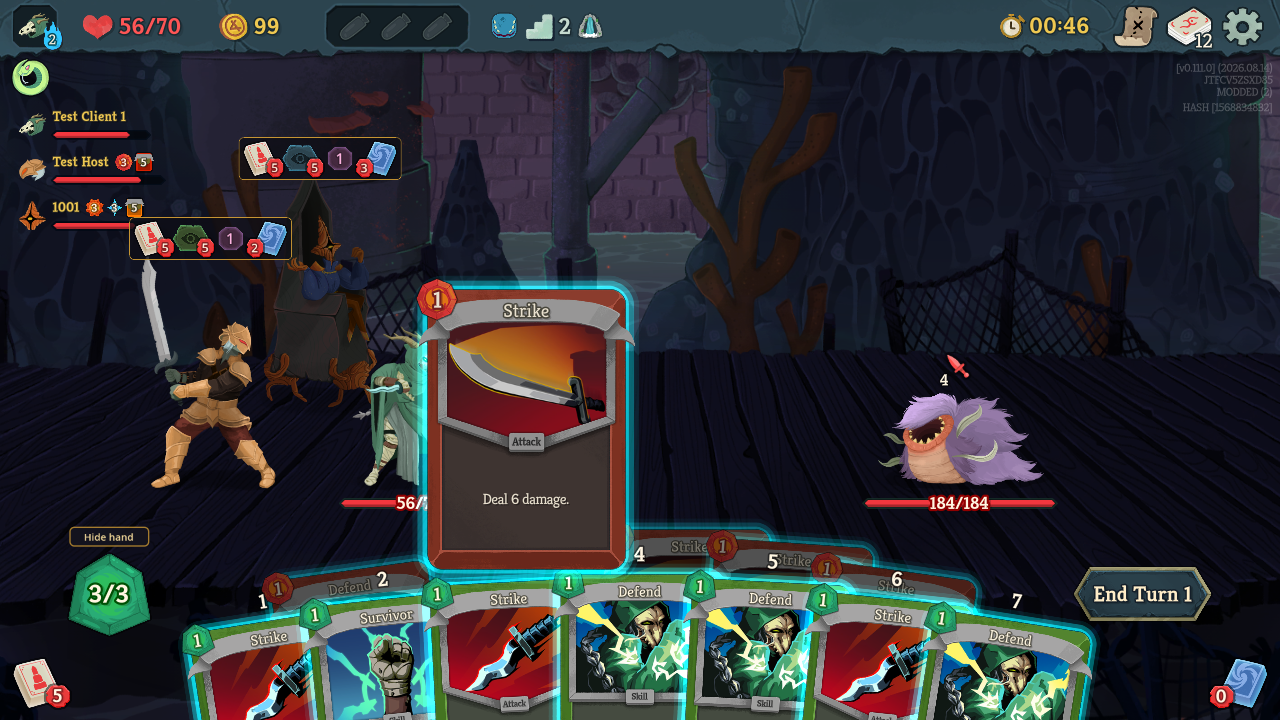
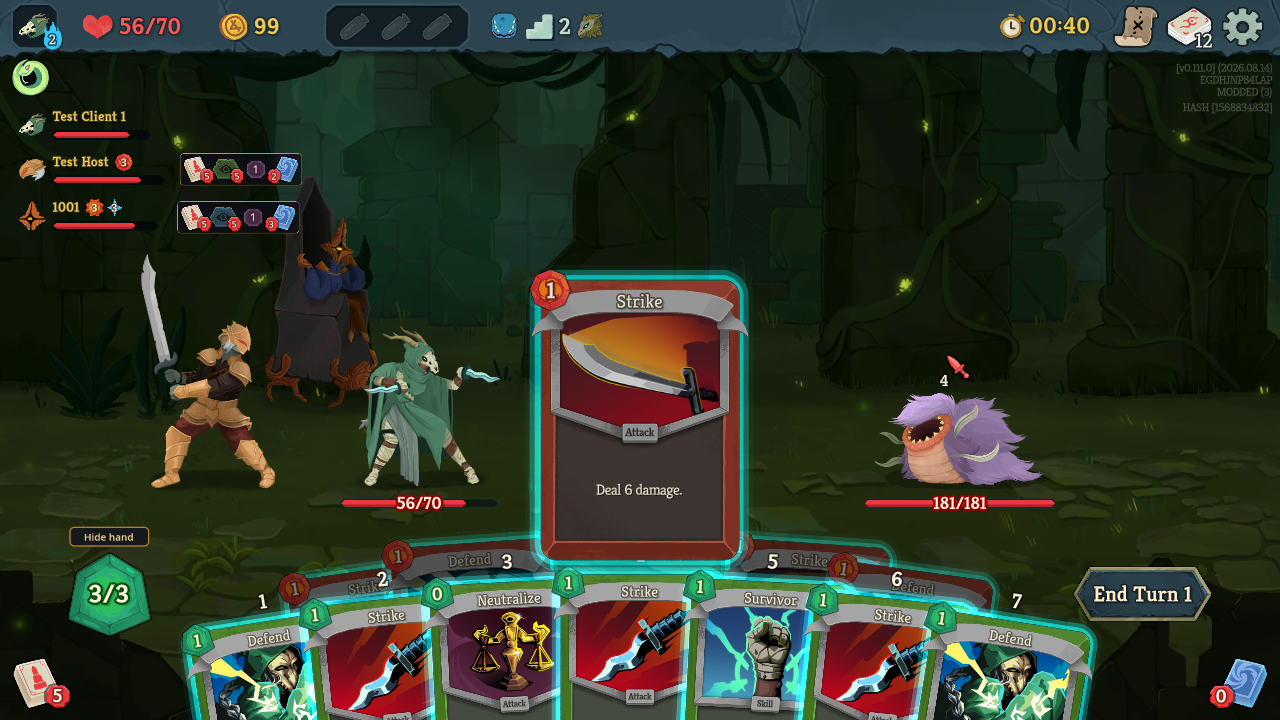
Strips next to each teammate's name, lit frame on hover (v0.4.0)
- Strips are anchored to the teammate's row in the player list (fixed to the
  UI) instead of following the characters; size 100% = about a name's height;
  drag offsets are now relative to the row (saved under a new key, so old
  character-relative offsets are dropped)
- Hovering a strip lights that teammate's frame in the player list, like
  hovering their character (NMultiplayerPlayerStateContainer.HighlightPlayer)
- The row's native hand-count icon is hidden while the strip shows it
- Showcase: the game saves its own screenshots (window focus doesn't
  matter); shots retaken; new checks in the fast suite
- Version 0.4.0, Workshop change note; includes the publish script (#8)

diff --git a/src/PileViewer.cs b/src/PileViewer.cs
@@ -11,7 +11,9 @@ using MegaCrit.Sts2.Core.Entities.Players;
 using MegaCrit.Sts2.Core.Helpers;
 using MegaCrit.Sts2.Core.Localization;
 using MegaCrit.Sts2.Core.Models;
+using MegaCrit.Sts2.Core.Nodes;
 using MegaCrit.Sts2.Core.Nodes.Combat;
+using MegaCrit.Sts2.Core.Nodes.Multiplayer;
 using MegaCrit.Sts2.Core.Nodes.Rooms;
 using MegaCrit.Sts2.Core.Nodes.Screens;
 using MegaCrit.Sts2.Core.Nodes.Screens.Capstones;
@@ -43,7 +45,19 @@ public static partial class PileViewer
 
     // Relative to the creature node's origin. BetterSpire2's incoming-damage label sits at (10, -320);
     // the strip's bottom-center goes above that.
-    private static readonly Vector2 AnchorOffset = new(0f, -350f);
+    // Gap between a player's name block in the top-left player list (its hitbox = the gold frame) and their strip.
+    private const float RowGap = 14f;
+
+    /// <summary>Strip scale at the "Size 100%" setting: about as tall as a player's name + health bar.</summary>
+    internal const float BaseScale = 0.75f;
+
+    private static float StripScale => Settings.Scale * BaseScale;
+
+    /// <summary>Rows whose native hand-count icon we hid (our strip shows the hand count instead).</summary>
+    private static readonly HashSet<NMultiplayerPlayerState> _handCountHidden = new();
+
+    /// <summary>Player whose row is lit because the mouse is over their strip (like hovering their character).</summary>
+    private static Player? _highlighted;
 
     // Launch with -pileviewerself to also show a strip for the local player (handy for solo testing).
     private static readonly bool IncludeSelf = OS.GetCmdlineArgs().Contains("-pileviewerself");
@@ -98,8 +112,58 @@ public static partial class PileViewer
         }
     }
 
+    /// <summary>
+    /// Mouse over a strip lights up that player's frame in the player list (NMultiplayerPlayerStateContainer
+    /// .HighlightPlayer — what hovering their character does), so it's clear whose piles these are.
+    /// </summary>
+    private static void UpdateHoverHighlight()
+    {
+        Vector2 mouse = HandViewer.LastMouse;
+        Player? hovered = _widgets.Values.FirstOrDefault(w => GodotObject.IsInstanceValid(w.Root) && w.Root.IsVisibleInTree()
+            && ScreenRect(w.Root).HasPoint(mouse))?.Player;
+        SetHighlight(hovered);
+    }
+
+    private static void SetHighlight(Player? player)
+    {
+        if (player == _highlighted) return;
+        var container = NRun.Instance?.GlobalUi?.MultiplayerPlayerContainer;
+        if (_highlighted != null) container?.UnhighlightPlayer(_highlighted);
+        _highlighted = player;
+        if (player != null) container?.HighlightPlayer(player);
+    }
+
+    /// <summary>
+    /// Hide the row's native hand-count icon while our strip shows that player's hand size. The game shows it at the
+    /// start of combat and hides it at the end, so it's only put back while combat is still running.
+    /// </summary>
+    private static void HideNativeHandCount(NMultiplayerPlayerState row, bool hide)
+    {
+        if (row.GetNodeOrNull<Control>("%CardCountContainer") is not Control count) return;
+        if (hide)
+        {
+            if (count.Visible) count.Visible = false;
+            _handCountHidden.Add(row);
+        }
+        else if (_handCountHidden.Remove(row) && CombatManager.Instance.IsInProgress)
+        {
+            count.Visible = true;
+        }
+    }
+
+    private static void RestoreNativeHandCounts()
+    {
+        foreach (var row in _handCountHidden.ToList())
+        {
+            if (GodotObject.IsInstanceValid(row)) HideNativeHandCount(row, false);
+        }
+        _handCountHidden.Clear();
+    }
+
     public static void Hide()
     {
+        SetHighlight(null);
+        RestoreNativeHandCounts();
         foreach (var widget in _widgets.Values) widget.Free();
         _widgets.Clear();
         HandViewer.Reset();
@@ -156,6 +220,8 @@ public static partial class PileViewer
         {
             foreach (var widget in _widgets.Values) widget.Free();
             _widgets.Clear();
+            SetHighlight(null);
+            RestoreNativeHandCounts();
             return;
         }
         bool includeSelf = Settings.ShowSelf || IncludeSelf;
@@ -176,15 +242,29 @@ public static partial class PileViewer
             }
             UpdateWidget(room, widget);
         }
+        UpdateHoverHighlight();
+    }
+
+    /// <summary>The player's row in the top-left player list (name, health, ...), which their strip sits next to.</summary>
+    internal static NMultiplayerPlayerState? PlayerRow(Player player) =>
+        NRun.Instance?.GlobalUi?.MultiplayerPlayerContainer?.GetChildren().OfType<NMultiplayerPlayerState>()
+            .FirstOrDefault(row => row.Player == player);
+
+    /// <summary>A control's rect on screen (it and the player list can be on different canvas layers).</summary>
+    internal static Rect2 ScreenRect(Control control)
+    {
+        Transform2D xf = control.GetGlobalTransformWithCanvas();
+        return new Rect2(xf.Origin, control.Size * xf.Scale);
     }
 
     private static void UpdateWidget(NCombatRoom room, Widget widget)
     {
-        NCreature? creatureNode = room.GetCreatureNode(widget.Player.Creature);
+        NMultiplayerPlayerState? row = PlayerRow(widget.Player);
         // Hide under full-screen overlays (pile screens, deck view, map, ...) — the strip would draw on top of them.
         bool overlayOpen = NCapstoneContainer.Instance?.InUse == true;
-        if (creatureNode == null || widget.Player.PlayerCombatState == null || overlayOpen)
+        if (row == null || !row.IsVisibleInTree() || widget.Player.PlayerCombatState == null || overlayOpen)
         {
+            if (row != null) HideNativeHandCount(row, false);
             widget.Root.Visible = false;
             widget.ClosePopup();
             return;
@@ -214,17 +294,24 @@ public static partial class PileViewer
             }
         }
 
+        // The strip's Hand slot shows the hand size, so the row's own hand-count icon is redundant.
+        HideNativeHandCount(row, Settings.HandViewerEnabled);
+
         // Settings from the F1 menu: size and background opacity.
-        if (widget.Root.Scale.X != Settings.Scale) widget.Root.Scale = new Vector2(Settings.Scale, Settings.Scale);
+        if (widget.Root.Scale.X != StripScale) widget.Root.Scale = new Vector2(StripScale, StripScale);
         if (widget.Style.BgColor.A != Settings.Opacity)
         {
             widget.Style.BgColor = new Color(StripBg, Settings.Opacity);
             widget.Style.BorderColor = new Color(StripBorder, Settings.Opacity);
         }
 
-        Vector2 size = widget.Root.Size * Settings.Scale;
-        widget.Root.GlobalPosition = creatureNode.GlobalPosition + AnchorOffset + Settings.GetOffset(widget.Player.NetId)
-            - new Vector2(size.X / 2f, size.Y);
+        // Next to the player's row in the player list (fixed to the UI, unlike the characters, which move), plus
+        // the player's drag offset.
+        Vector2 size = widget.Root.Size * StripScale;
+        Rect2 rowRect = ScreenRect(row.Hitbox);
+        Vector2 onScreen = new Vector2(rowRect.End.X + RowGap, rowRect.Position.Y + (rowRect.Size.Y - size.Y) / 2f)
+            + Settings.GetOffset(widget.Player.NetId);
+        widget.Root.GlobalPosition = widget.Root.GetCanvasTransform().AffineInverse() * onScreen;
 
         if (widget.Popup != null && widget.PopupLabel != null && GodotObject.IsInstanceValid(widget.Popup))
         {

diff --git a/src/AutoTest.cs b/src/AutoTest.cs
@@ -82,10 +82,17 @@ public static class AutoTest
             return;
         }
 
+        // Hover a teammate's strip so the shot also shows their lit frame in the player list.
+        if (PileViewer.StripAndRow(PileViewer.Teammates()[0].player.NetId) is { } placed) await Mouse(placed.Strip.GetCenter(), pressed: null);
+        await Wait(0.5);
+        if (PileViewer.PlayerRow(PileViewer.Teammates()[0].player) is { } row) Log("player row tree:\n" + PileViewer.DescribeTree(row, 0));
+        Shot(1);
         Log("SHOT 1");
         await Wait(6.0);
+        await Mouse(new Vector2(960f, 300f), pressed: null);
         SettingsMenu.Open();
         await Wait(1.0);
+        Shot(2);
         Log("SHOT 2");
         await Wait(6.0);
         SettingsMenu.Close();
@@ -99,6 +106,7 @@ public static class AutoTest
         }
         PileViewer.OpenTeammatePile(0, PileType.Discard);
         await Wait(1.5);
+        Shot(3);
         Log("SHOT 3 " + PileViewer.DescribeOpenView());
         await Wait(6.0);
         PileViewer.OpenTeammatePile(0, PileType.Discard); // close it
@@ -107,15 +115,17 @@ public static class AutoTest
         // Hand Viewer: the teammate's hand behind yours with one card raised, then your hand hidden with a closeup.
         HandViewer.View(PileViewer.Teammates()[0].player.NetId);
         await Wait(2.0);
-        if (HandViewer.CardCenter(1) is Vector2 peek) await Mouse(peek - new Vector2(0f, 140f), pressed: null);
+        if (HandViewer.PeekPoint(HandViewer.MiddleIndexOf(_ => true)) is Vector2 peek) await Mouse(peek, pressed: null);
         await Wait(1.5);
+        Shot(4);
         Log("SHOT 4 " + HandViewer.DescribeCloseup());
         await Wait(6.0);
         await Mouse(new Vector2(960f, 300f), pressed: null);
         HandViewer.ToggleHideOwnHand();
         await Wait(1.0);
-        if (HandViewer.CardCenter(2) is Vector2 target) await Mouse(target - new Vector2(0f, 120f), pressed: null);
+        if (HandViewer.CardCenter(HandViewer.MiddleIndexOf(_ => true)) is Vector2 target) await Mouse(target, pressed: null);
         await Wait(1.5);
+        Shot(5);
         Log("SHOT 5 " + HandViewer.DescribeFocus());
         await Wait(6.0);
         HandViewer.ToggleHideOwnHand();
@@ -125,15 +135,16 @@ public static class AutoTest
         // Aim one of their attacks at the enemy: the game's arrow, numbers from their state.
         int attack = HandViewer.MiddleIndexOf(c => c.TargetType == TargetType.AnyEnemy);
         Creature? enemy = CombatManager.Instance.DebugOnlyGetState()?.HittableEnemies.FirstOrDefault();
-        if (attack >= 0 && enemy != null && HandViewer.CardCenter(attack) is Vector2 card)
+        if (attack >= 0 && enemy != null && HandViewer.PeekPoint(attack) is Vector2 card)
         {
-            Vector2 from = card - new Vector2(0f, 155f); // high in the visible strip, clear of your own cards
+            Vector2 from = card;
             Vector2 to = NCombatRoom.Instance!.GetCreatureNode(enemy)!.Hitbox.GetGlobalRect().GetCenter();
             await Mouse(from, pressed: null);
             await Wait(0.8);
             await Mouse(from, pressed: true);
             for (int i = 1; i <= 8; i++) await Mouse(from.Lerp(to, i / 8f), pressed: null);
             await Wait(1.0);
+            Shot(6);
             Log("SHOT 6 " + HandViewer.DescribeDragCard());
             await Wait(6.0);
             await RightClick(to);
@@ -278,6 +289,16 @@ public static class AutoTest
         await Wait(5.0);
         Log($"mixed: still in combat after everything: {CombatManager.Instance.IsInProgress}");
         Log("done");
+    }
+
+    /// <summary>Showcase: the game saves its own frame (no window capture, so window focus doesn't matter).</summary>
+    private static void Shot(int n)
+    {
+        string dir = System.IO.Path.Combine(OS.GetUserDataDir(), "showcase");
+        System.IO.Directory.CreateDirectory(dir);
+        Image image = ((SceneTree)Engine.GetMainLoop()).Root.GetTexture().GetImage();
+        image.SavePng(System.IO.Path.Combine(dir, $"shot_{n}.png"));
+        Log($"saved shot {n} ({image.GetWidth()}x{image.GetHeight()})");
     }
 
     private static async Task RightClick(Vector2 viewportPos)
@@ -505,7 +526,21 @@ public static class AutoTest
         Vector2 away = new(960f, 300f);
 
         // ---- Strips ----
-        Check("a strip over every teammate", teammates.All(t => PileViewer.StripCounts(t.player.NetId) != null), PileViewer.DescribeState());
+        Check("a strip for every teammate", teammates.All(t => PileViewer.StripCounts(t.player.NetId) != null), PileViewer.DescribeState());
+        if (PileViewer.StripAndRow(MutatorId) is { } placed)
+        {
+            Check("strip sits next to the teammate's name", placed.Strip.Position.X >= placed.Row.End.X
+                && Mathf.Abs(placed.Strip.GetCenter().Y - placed.Row.GetCenter().Y) < 12f && placed.Strip.Position.X - placed.Row.End.X < 20f
+                && placed.Strip.Size.Y <= placed.Row.Size.Y,
+                $"strip {placed.Strip}, row {placed.Row}");
+            await Mouse(placed.Strip.GetCenter(), null);
+            await Wait(0.1);
+            Check("hovering a strip lights that teammate's frame", PileViewer.RowHighlighted(MutatorId));
+            Check("the name's own hand-count icon is hidden (the strip shows it)", !PileViewer.NativeHandCountShown(MutatorId));
+            await Mouse(new Vector2(960f, 300f), null);
+            await Wait(0.1);
+            Check("…and it goes out when the mouse leaves", !PileViewer.RowHighlighted(MutatorId));
+        }
         await WaitUntil(() => PileType.Exhaust.GetPile(mutator).Cards.Count > 0, 15);
         await Wait(0.2);
         string expected = string.Join("/", PileViewer.StripSlots.Select(p => p.GetPile(mutator).Cards.Count));
@@ -535,7 +570,7 @@ public static class AutoTest
         SettingsMenu.Open();
         SettingsMenu.ScaleSlider!.Value = 150;
         await Wait(0.1);
-        Check("size slider scales the strips", Mathf.IsEqualApprox(PileViewer.StripScale(MutatorId).X, 1.5f), $"{PileViewer.StripScale(MutatorId)}");
+        Check("size slider scales the strips", Mathf.IsEqualApprox(PileViewer.StripScaleOf(MutatorId).X, 1.5f * PileViewer.BaseScale), $"{PileViewer.StripScaleOf(MutatorId)}");
         SettingsMenu.ScaleSlider.Value = 100;
         SettingsMenu.ResetPositionButton!.EmitSignal(BaseButton.SignalName.Pressed);
         Check("reset strip positions", Settings.GetOffset(MutatorId) == Vector2.Zero);

diff --git a/src/Settings.cs b/src/Settings.cs
@@ -23,7 +23,9 @@ public static class Settings
         public float opacity { get; set; } = 0.75f;
         public bool showSelf { get; set; }
         public bool textList { get; set; }
-        public Dictionary<string, float[]>? stripOffsets { get; set; }
+        // Offsets from the default spot next to each player's name (v0.3.2+; the old "stripOffsets" were relative to
+        // the character and are ignored).
+        public Dictionary<string, float[]>? stripPositions { get; set; }
         public Dictionary<string, string>? hotkeys { get; set; }
         public bool handViewer { get; set; } = true;
         public bool hideHandButton { get; set; } = true;
@@ -75,8 +77,8 @@ public static class Settings
     public static float HandVisible = 0.20f;
 
     /// <summary>
-    /// Per-strip drag offsets relative to the default spot above the character, keyed by the player's NetId
-    /// (their Steam id online), so each teammate's strip keeps its own position across sessions.
+    /// Per-strip drag offsets from the default spot next to each player's name in the player list, keyed by the
+    /// player's NetId (their Steam id online), so each teammate's strip keeps its own position across sessions.
     /// </summary>
     private static readonly Dictionary<ulong, Vector2> _offsets = new();
 
@@ -128,7 +130,7 @@ public static class Settings
             ShowSelf = dto.showSelf;
             TextList = dto.textList;
             _offsets.Clear();
-            foreach (var (key, xy) in dto.stripOffsets ?? new Dictionary<string, float[]>())
+            foreach (var (key, xy) in dto.stripPositions ?? new Dictionary<string, float[]>())
             {
                 if (ulong.TryParse(key, out ulong netId) && xy is { Length: 2 }) _offsets[netId] = new Vector2(xy[0], xy[1]);
             }
@@ -159,7 +161,7 @@ public static class Settings
                 opacity = Opacity,
                 showSelf = ShowSelf,
                 textList = TextList,
-                stripOffsets = _offsets.ToDictionary(kv => kv.Key.ToString(), kv => new[] { kv.Value.X, kv.Value.Y }),
+                stripPositions = _offsets.ToDictionary(kv => kv.Key.ToString(), kv => new[] { kv.Value.X, kv.Value.Y }),
                 hotkeys = Hotkeys.Serialize(),
                 handViewer = HandViewerEnabled,
                 hideHandButton = HideHandButtonEnabled,

diff --git a/src/PileViewer.Testing.cs b/src/PileViewer.Testing.cs
@@ -27,7 +27,23 @@ public static partial class PileViewer
     internal static string[]? StripCounts(ulong netId) =>
         _widgets.TryGetValue(netId, out var w) && GodotObject.IsInstanceValid(w.Root) && w.Root.Visible ? w.Counts.Select(c => c.Text).ToArray() : null;
 
-    internal static Vector2 StripScale(ulong netId) => _widgets.TryGetValue(netId, out var w) ? w.Root.Scale : Vector2.Zero;
+    /// <summary>On-screen rects of a player's strip and their name block (row hitbox = gold frame) in the player list (auto-test).</summary>
+    internal static (Rect2 Strip, Rect2 Row)? StripAndRow(ulong netId)
+    {
+        if (!_widgets.TryGetValue(netId, out var w) || !GodotObject.IsInstanceValid(w.Root) || PlayerRow(w.Player) is not { } row) return null;
+        return (ScreenRect(w.Root), ScreenRect(row.Hitbox));
+    }
+
+    /// <summary>Whether a player's row in the player list is lit (its gold frame) (auto-test).</summary>
+    internal static bool RowHighlighted(ulong netId) =>
+        _widgets.TryGetValue(netId, out var w) && PlayerRow(w.Player) is { } row
+        && Traverse.Create(row).Field<bool>("_isHighlighted").Value;
+
+    /// <summary>Whether the row's native hand-count icon is showing (auto-test).</summary>
+    internal static bool NativeHandCountShown(ulong netId) =>
+        _widgets.TryGetValue(netId, out var w) && PlayerRow(w.Player)?.GetNodeOrNull<Control>("%CardCountContainer") is { } c && c.Visible;
+
+    internal static Vector2 StripScaleOf(ulong netId) => _widgets.TryGetValue(netId, out var w) ? w.Root.Scale : Vector2.Zero;
 
     /// <summary>One-line summary of every strip, for logs and the auto-test.</summary>
     internal static string DescribeState()

diff --git a/PILE_VIEWER.md b/PILE_VIEWER.md
@@ -54,6 +54,12 @@ Logs: `%APPDATA%\SlayTheSpire2\spire2pileviewer_{host,1000,…}_log.txt`; game c
 
 Manual: `scripts/launch-mp.ps1 -Players 2` (no autotest) and click through.
 
+Publishing: `scripts/publish-workshop.ps1 [-ChangeNote "..."]` (Steam running, the user's go-ahead first): builds
+Release, uploads, then checks the live page — thumbnail and every preview must match the local files by SHA1.
+Previews are never re-sent under an existing name (Steam drops a preview that is "updated" unchanged — v0.3.1 lost
+all six that way): unchanged previews are left alone (no previews/ folder uploaded); changed ones go up under
+version-stamped names. Previews must each be < 1 MB.
+
 Dev vs. play: the dev build lives in `<game>\mods\Spire2PileViewer` only while testing. `test-settings.ps1 -Mode
 apply` (run by every launch script) installs it; `-Mode restore` (run at the end of automated tests) removes it,
 so normal play uses the Workshop subscription. With both present the game loads the higher version (the local

diff --git a/README.md b/README.md
@@ -4,9 +4,9 @@ Slay the Spire 2 co-op mod: see your teammates' draw, exhaust, and discard piles
 
 Cosmetic only: teammates don't need the mod, and nothing you do with it is sent to them.
 
-![Strips above each teammate](assets/strips.png)
+![Strips next to each teammate's name](assets/strips.png)
 
-- Each teammate gets a strip with live pile counts. **Click** a pile to open it.
+- Each teammate gets a strip next to their name with live pile counts. **Click** a pile to open it.
 - **Drag** a strip to move it.
 - Hotkeys: Shift+Z / V / C open teammate 1's draw / exhaust / discard pile (Ctrl+ for teammate 2,
   Ctrl+Shift+ for teammate 3). Rebind in F1, to keys or extra mouse buttons. The game's own hotkeys win.
